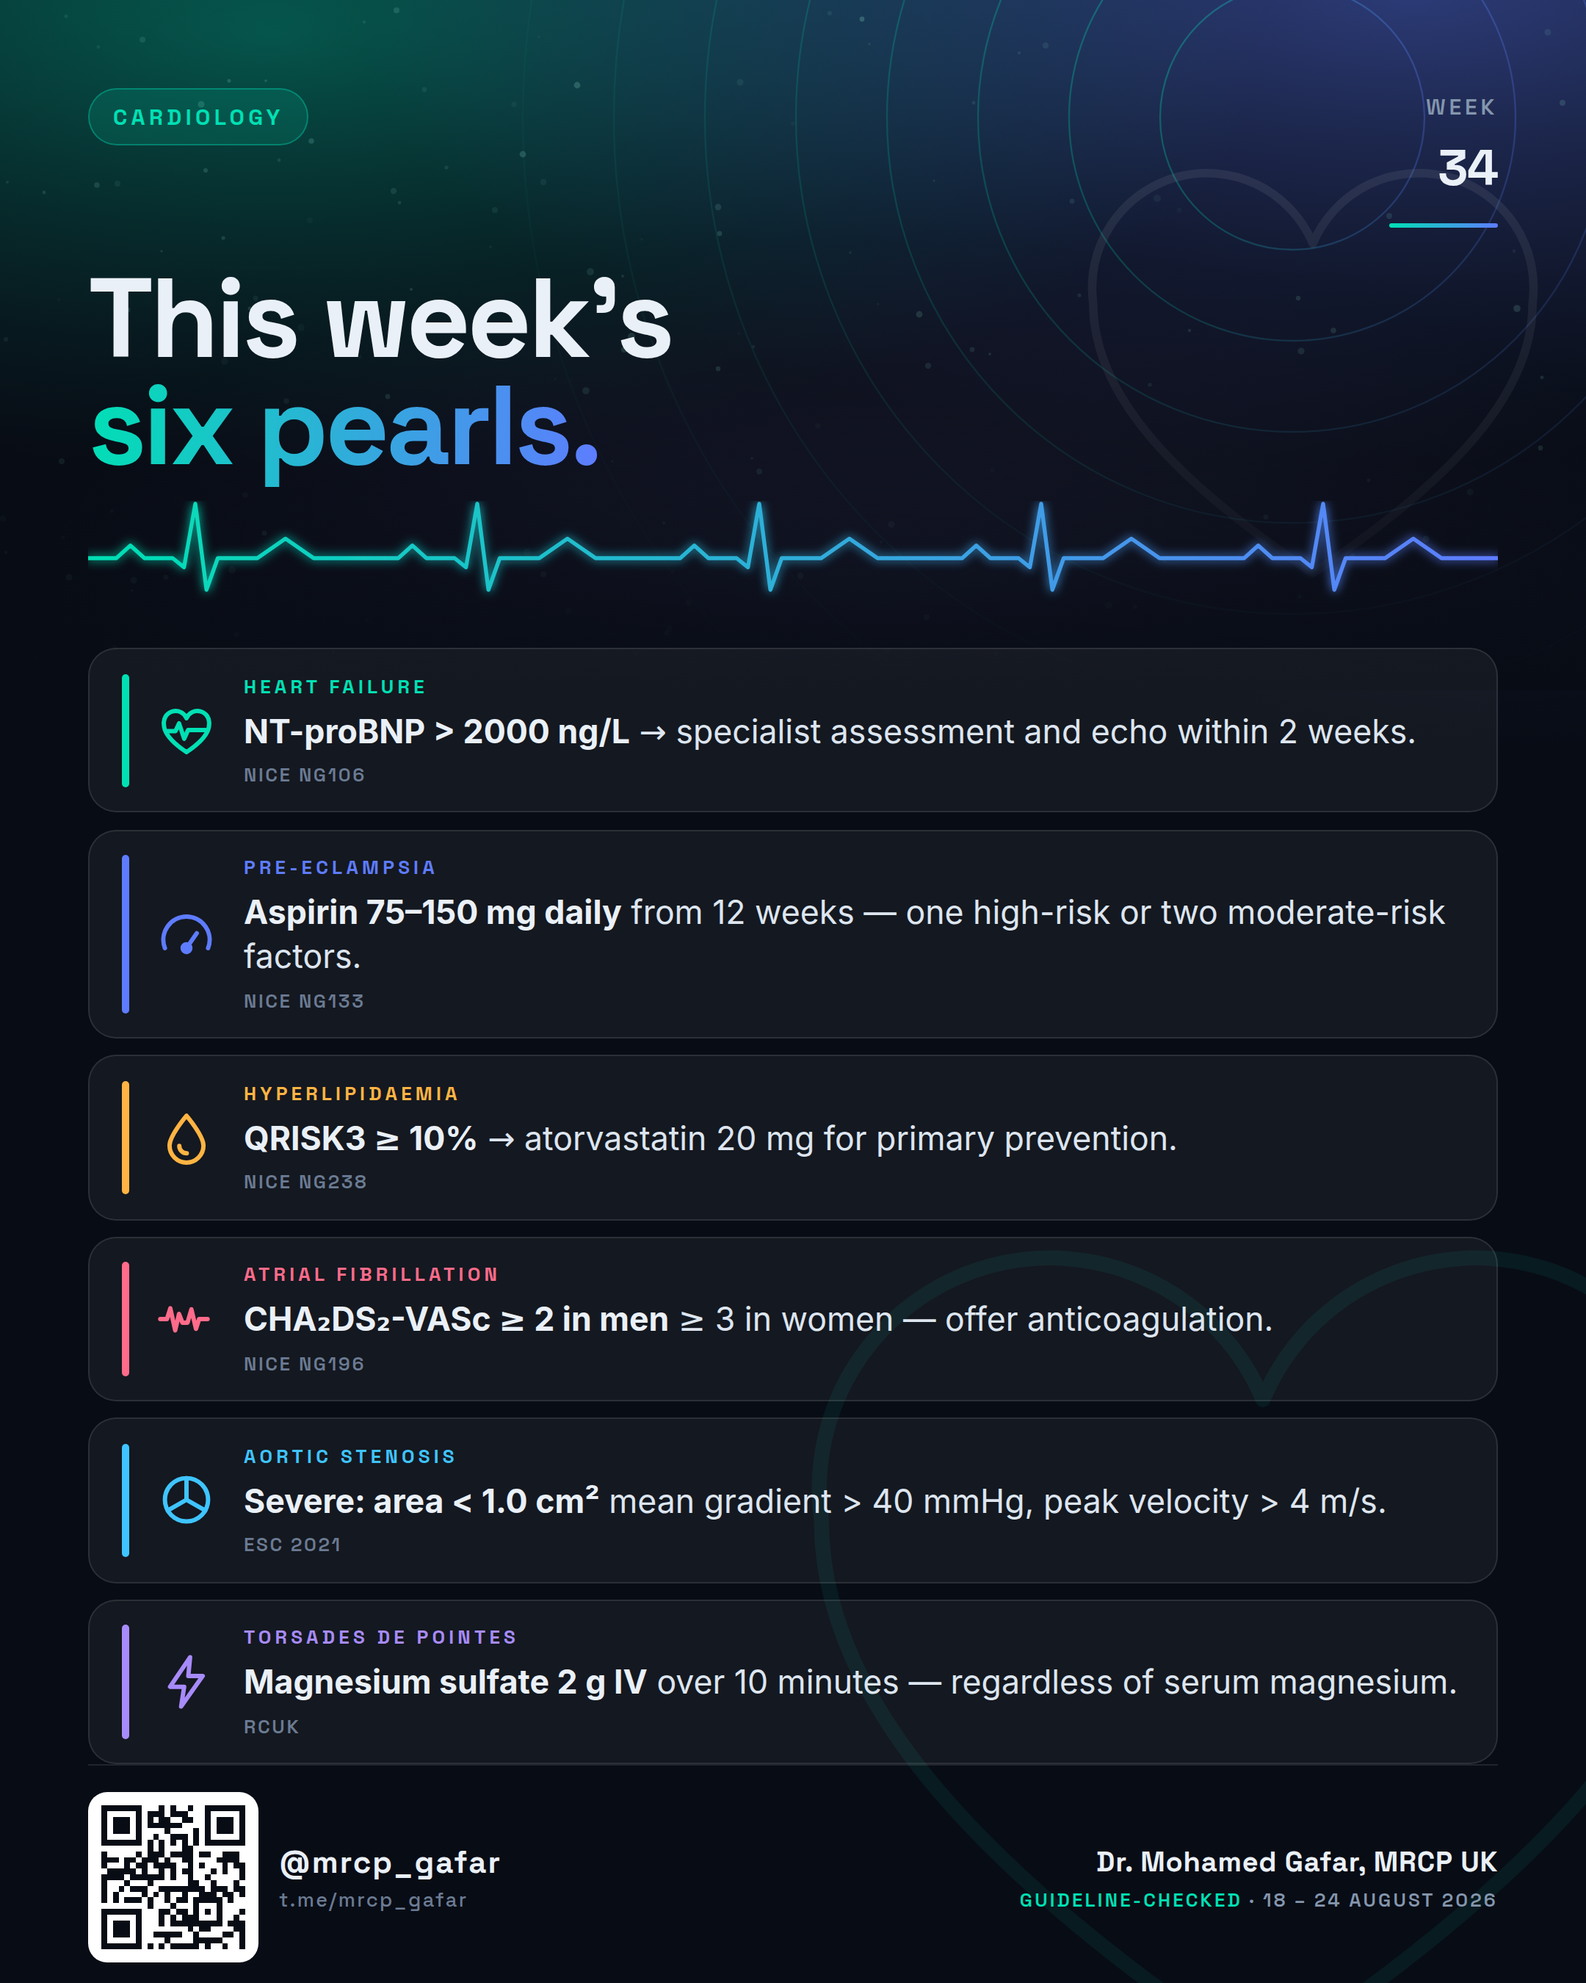
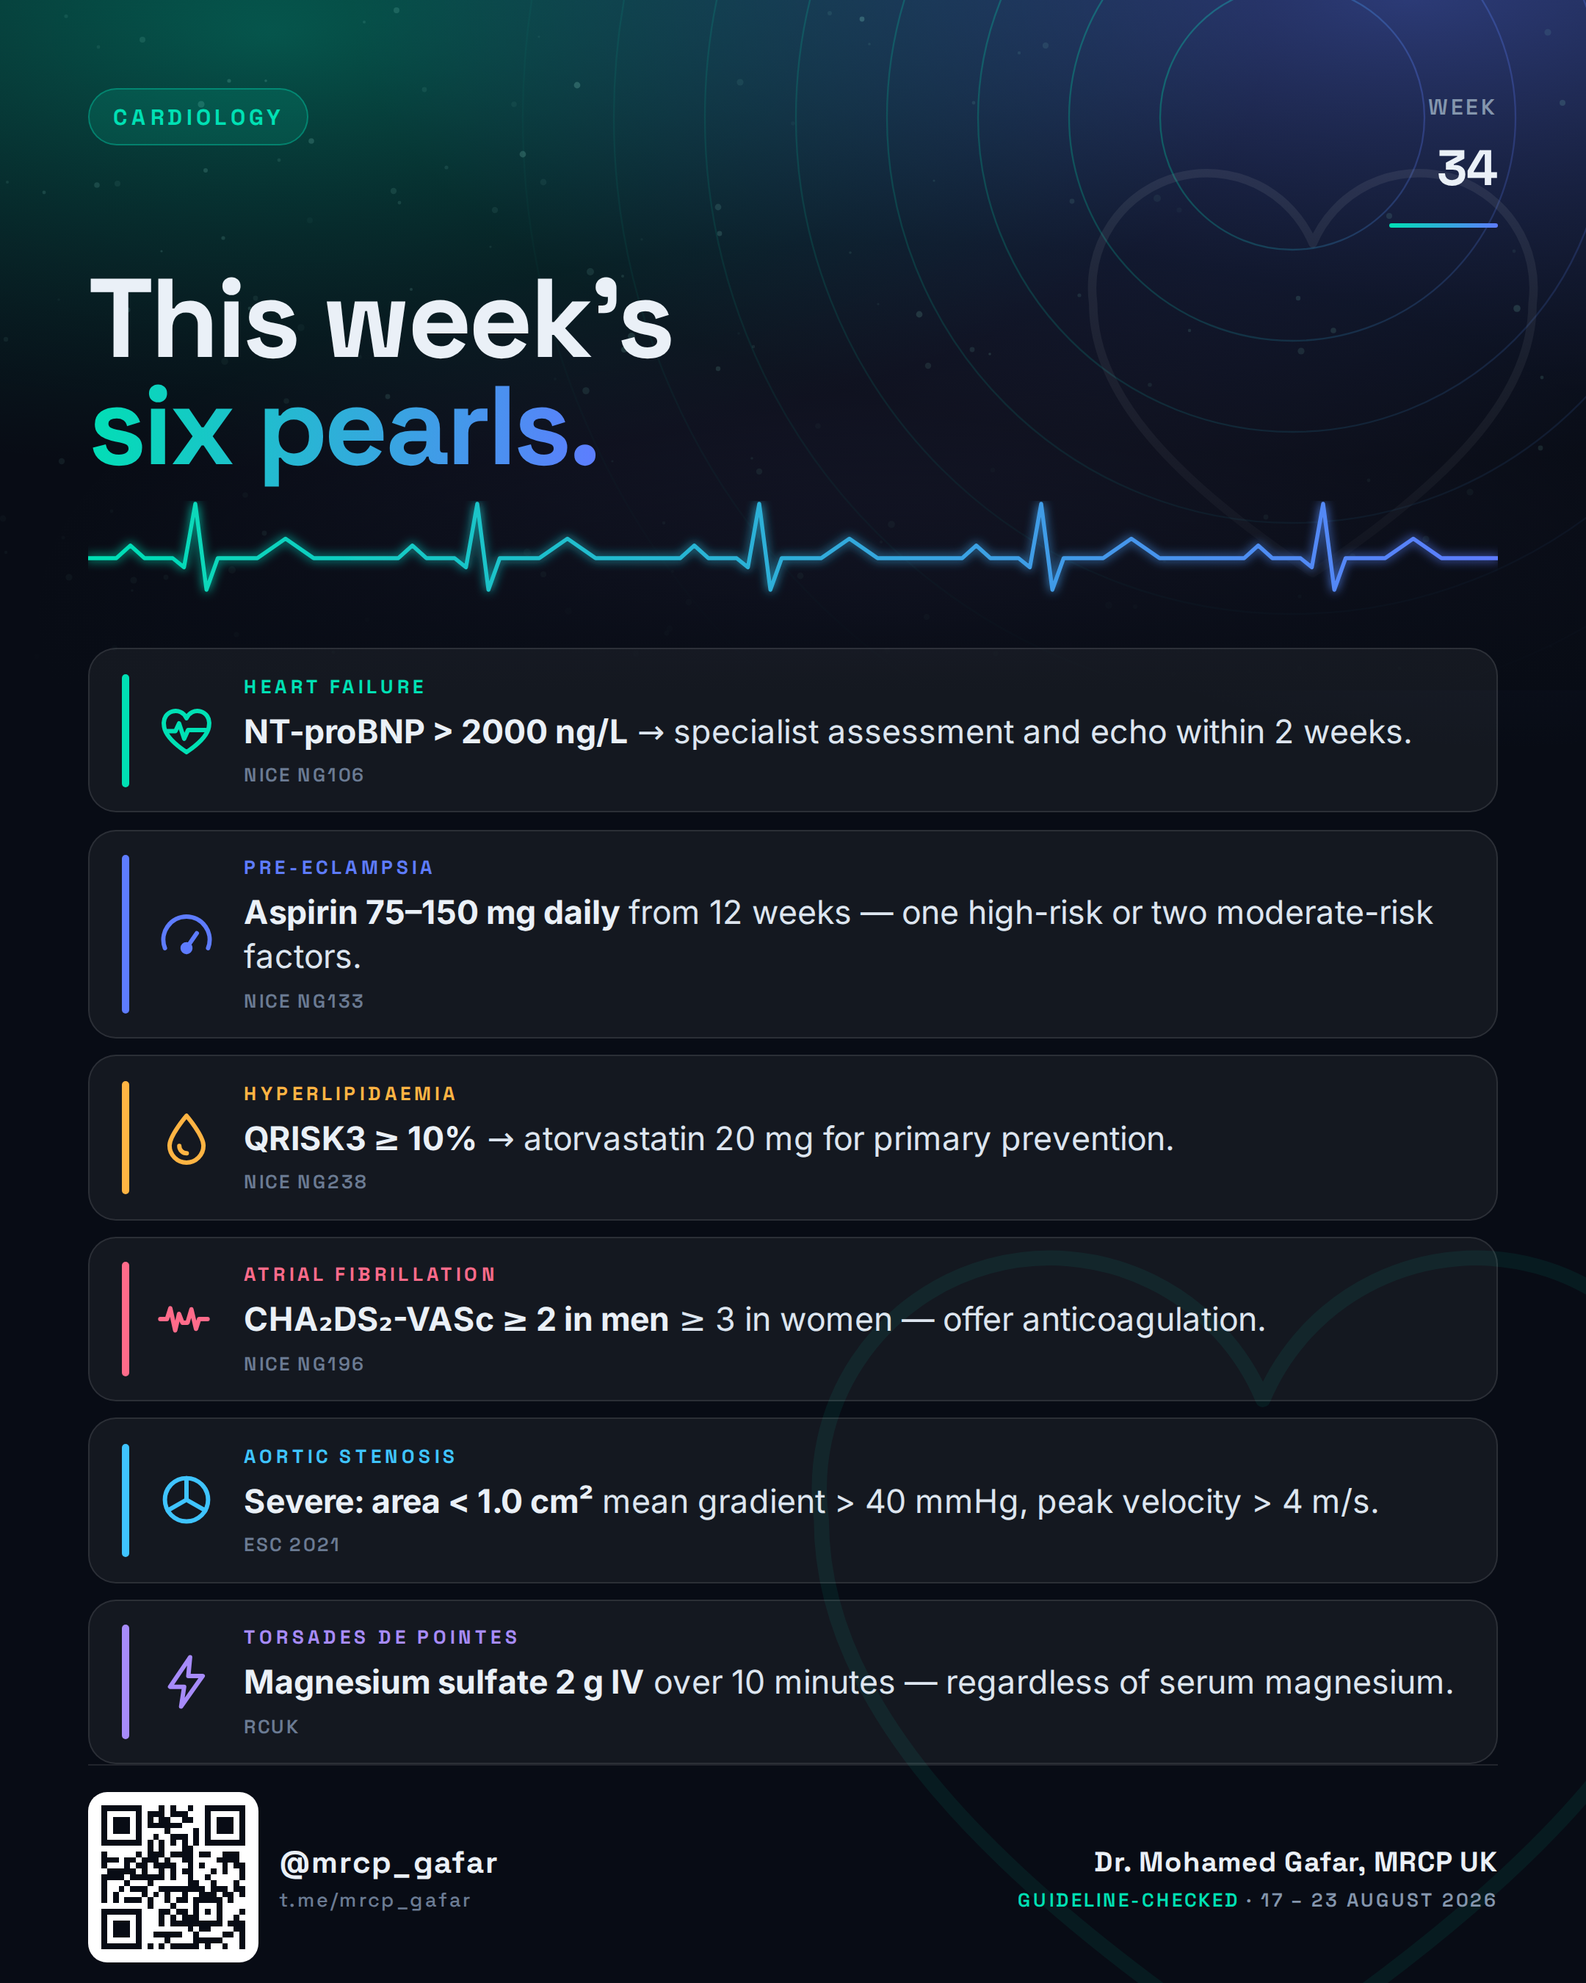
Make the renderer runnable outside this container
The template only ran where it was written: Chromium was pinned to one
absolute path, content was hand-edited source, and there was no dependency
manifest. None of that survives a fresh machine, which is where a scheduled
job runs.

- shoot.mjs resolves Chromium at run time (CHROME_PATH, Playwright cache,
  system chrome) and uses a per-pid port and profile dir so concurrent runs
  do not collide.
- build.py takes --content JSON and --outdir, and generates content.js from
  it, so the pipeline has one seam and no file is edited by hand. It
  validates the week: Monday start, 3-8 pearls, no empty fields, and exits
  non-zero rather than rendering a half-filled canvas.
- The headline count is derived from the pearls, and accents cycle, so weeks
  that are not exactly six pearls render correctly.
- icons.js resolves a topic by exact match, then keyword, then a generic
  fallback. Topics come from Notion; the old exact-string map would have
  drawn a blank square for anything it had not seen.
- Added requirements.txt and package.json.

Also fixes the sample WEEK_START, which was a Tuesday: the footer date range
read 18-24 August instead of the real ISO week 34, 17-23 August.

Claude-Session: https://claude.ai/code/session_01GRMwEyQNScHBkncC4dqAhV

diff --git a/weekly-infographic/icons.js b/weekly-infographic/icons.js
@@ -1,4 +1,8 @@
 // 24x24 stroke icons, one per topic. currentColor so each inherits its card accent.
+//
+// Topics arrive from Notion, so an exact-string map would silently render a blank
+// square for anything not literally in this file. Lookup is therefore: exact key,
+// then keyword match, then a generic fallback that always draws something.
 const ICONS = {
   "Heart failure": '<path d="M12 20.6C6 16.6 3.2 13.2 3.2 9.8A4.6 4.6 0 0 1 12 7.4a4.6 4.6 0 0 1 8.8 2.4c0 3.4-2.8 6.8-8.8 10.8Z"/><path d="M4.6 12.4h3.1l1.4-3 2 6 1.5-3.4h6.8"/>',
   "Pre-eclampsia": '<path d="M3.6 17.4a9 9 0 1 1 16.8 0"/><path d="M12 17.4 16 11.6"/><circle cx="12" cy="17.4" r="1.5"/>',
@@ -6,7 +10,51 @@ const ICONS = {
   "Atrial fibrillation": '<path d="M1.8 12h2.6l1.3-4.2 1.9 8.6 1.5-6.4 1.3 3.4h2l1.5-5.2 1.8 7.6 1.2-3.8h3.3"/>',
   "Aortic stenosis": '<circle cx="12" cy="12" r="8.4"/><path d="M12 12V3.6M12 12 4.7 16.2M12 12l7.3 4.2"/>',
   "Torsades de pointes": '<path d="M13.4 2.4 5.6 13.9h5.5L9.9 21.6l8.4-11.9h-5.6l.7-7.3Z"/>',
+  // Generic shapes reused by the keyword table below.
+  "Heart": '<path d="M12 20.6C6 16.6 3.2 13.2 3.2 9.8A4.6 4.6 0 0 1 12 7.4a4.6 4.6 0 0 1 8.8 2.4c0 3.4-2.8 6.8-8.8 10.8Z"/>',
+  "Vessel": '<path d="M6.4 3.2v7.2a5.6 5.6 0 0 0 11.2 0V3.2"/><path d="M4 20.8h16"/><circle cx="6.4" cy="3.2" r="1.4"/><circle cx="17.6" cy="3.2" r="1.4"/>',
+  "Pressure": '<circle cx="12" cy="13.4" r="7.2"/><path d="M12 13.4 15.6 9.4"/><path d="M12 6.2V3.2"/>',
+  "Pill": '<rect x="3.2" y="9.2" width="17.6" height="5.6" rx="2.8" transform="rotate(-45 12 12)"/><path d="M8.4 8.4 15.6 15.6"/>',
+  "Lung": '<path d="M12 3.4v8.2"/><path d="M12 11.6 8.6 9.2C6.4 7.6 4 9 4 11.6v4.6c0 2.4 2 4.2 4.2 3.6 1.4-.4 2.2-1.6 2.2-3.1v-5.1Z"/><path d="M12 11.6l3.4-2.4c2.2-1.6 4.6-.2 4.6 2.4v4.6c0 2.4-2 4.2-4.2 3.6-1.4-.4-2.2-1.6-2.2-3.1v-5.1Z"/>',
+  "Kidney": '<path d="M14.6 3.4c-3.4 0-6.2 3.8-6.2 8.6s2.8 8.6 6.2 8.6c3 0 5-2.6 5-5.4 0-2-1.4-2.6-1.4-3.2s1.4-1.2 1.4-3.2c0-2.8-2-5.4-5-5.4Z"/><path d="M14.4 12h-3.2"/>',
+  "Lab": '<path d="M9.4 3.2v6.1L4.9 17a2.4 2.4 0 0 0 2.1 3.6h10a2.4 2.4 0 0 0 2.1-3.6l-4.5-7.7V3.2"/><path d="M8.2 3.2h7.6"/><path d="M7.2 14.4h9.6"/>',
+  "Warning": '<path d="M12 3.4 21 19.4H3L12 3.4Z"/><path d="M12 9.6v4.4"/><circle cx="12" cy="17" r="1"/>',
+  "Pulse": '<circle cx="12" cy="12" r="8.8"/><path d="M6.6 12h2l1.3-3.2 2.1 6.4 1.4-3.2h2"/>',
 };
+
+// Keyword table: first match wins, so put the specific before the general.
+// Matching is on a lower-cased topic, substring, accent-insensitive.
+const ICON_KEYWORDS = [
+  [["torsade", "long qt", "qtc", "vt", "ventricular tachycardia", "arrhythm"], "Torsades de pointes"],
+  [["atrial fibrillation", "af ", "flutter", "svt", "palpitation"], "Atrial fibrillation"],
+  [["heart failure", "hfref", "hfpef", "cardiomyopath", "bnp"], "Heart failure"],
+  [["aortic", "mitral", "tricuspid", "pulmonary stenosis", "valv", "regurgitat", "endocarditis"], "Aortic stenosis"],
+  [["lipid", "cholesterol", "statin", "ldl", "triglycerid"], "Hyperlipidaemia"],
+  [["eclampsia", "pregnan", "obstetric", "postpartum"], "Pre-eclampsia"],
+  [["hypertens", "blood pressure", "bp ", "shock", "hypotens"], "Pressure"],
+  [["infarct", "acs", "angina", "ischaem", "ischem", "coronary", "stemi", "nstemi", "troponin"], "Heart"],
+  [["embol", "dvt", "thrombo", "anticoagul", "warfarin", "doac", "bleed", "aneurysm", "dissection", "vascul", "periph"], "Vessel"],
+  [["pulmonary", "respirat", "asthma", "copd", "pneumon"], "Lung"],
+  [["renal", "kidney", "aki", "ckd", "dialysis", "nephro"], "Kidney"],
+  [["electrolyte", "sodium", "potassium", "kalaem", "kalem", "natraem", "natrem", "magnes",
+   "calcium", "calcaem", "glucose", "glycaem", "glycem", "diabet", "thyroid", "anaemia", "anemia"], "Lab"],
+  [["overdose", "toxic", "poison", "arrest", "resuscitat", "sepsis", "emergenc"], "Warning"],
+  [["drug", "dose", "dosing", "therap", "treatment", "prescrib"], "Pill"],
+];
+
+const ICON_FALLBACK = "Pulse";
+
+function ICON_FOR(topic) {
+  if (ICONS[topic]) return ICONS[topic];
+  const t = String(topic || "")
+    .toLowerCase()
+    .normalize("NFD").replace(/[\u0300-\u036f]/g, "")   // ischaemi/ischémi both match
+    + " ";                                              // lets "af " match a trailing "AF"
+  for (const [words, key] of ICON_KEYWORDS)
+    if (words.some(w => t.includes(w))) return ICONS[key];
+  return ICONS[ICON_FALLBACK];
+}
+
 const ICON_WRAP = (topic) =>
   `<svg viewBox="0 0 24 24" fill="none" stroke="currentColor" stroke-width="1.7"
-        stroke-linecap="round" stroke-linejoin="round">${ICONS[topic] || ''}</svg>`;
+        stroke-linecap="round" stroke-linejoin="round">${ICON_FOR(topic)}</svg>`;

diff --git a/weekly-infographic/content.js b/weekly-infographic/content.js
@@ -1,9 +1,1 @@
-const WEEK = { n: 34, range: "18 – 24 August 2026", handle: "@MRCPCardioPearls" };
-const PEARLS = [
-  { topic: "Heart failure",     lead: "NT-proBNP > 2000 ng/L",      rest: "→ specialist assessment and echo within 2 weeks.", src: "NICE NG106" },
-  { topic: "Pre-eclampsia",     lead: "Aspirin 75–150 mg daily",    rest: "from 12 weeks — one high-risk or two moderate-risk factors.", src: "NICE NG133" },
-  { topic: "Hyperlipidaemia",   lead: "QRISK3 ≥ 10%",               rest: "→ atorvastatin 20 mg for primary prevention.", src: "NICE NG238" },
-  { topic: "Atrial fibrillation", lead: "CHA₂DS₂-VASc ≥ 2 in men",  rest: "≥ 3 in women — offer anticoagulation.", src: "NICE NG196" },
-  { topic: "Aortic stenosis",   lead: "Severe: area < 1.0 cm²",     rest: "mean gradient > 40 mmHg, peak velocity > 4 m/s.", src: "ESC 2021" },
-  { topic: "Torsades de pointes", lead: "Magnesium sulfate 2 g IV", rest: "over 10 minutes — regardless of serum magnesium.", src: "RCUK" },
-];
+const PEARLS = [{"topic": "Heart failure", "lead": "NT-proBNP > 2000 ng/L", "rest": "→ specialist assessment and echo within 2 weeks.", "src": "NICE NG106"}, {"topic": "Pre-eclampsia", "lead": "Aspirin 75–150 mg daily", "rest": "from 12 weeks — one high-risk or two moderate-risk factors.", "src": "NICE NG133"}, {"topic": "Hyperlipidaemia", "lead": "QRISK3 ≥ 10%", "rest": "→ atorvastatin 20 mg for primary prevention.", "src": "NICE NG238"}, {"topic": "Atrial fibrillation", "lead": "CHA₂DS₂-VASc ≥ 2 in men", "rest": "≥ 3 in women — offer anticoagulation.", "src": "NICE NG196"}, {"topic": "Aortic stenosis", "lead": "Severe: area < 1.0 cm²", "rest": "mean gradient > 40 mmHg, peak velocity > 4 m/s.", "src": "ESC 2021"}, {"topic": "Torsades de pointes", "lead": "Magnesium sulfate 2 g IV", "rest": "over 10 minutes — regardless of serum magnesium.", "src": "RCUK"}];

diff --git a/weekly-infographic/build.py b/weekly-infographic/build.py
@@ -1,11 +1,15 @@
 #!/usr/bin/env python3
 """Build the weekly pearls infographic (dark + light) from one source of truth.
 
-Everything you'd want to tweak lives in CONFIG. Everything below it is mechanics.
+Content comes from a JSON file (--content) so the pipeline can drive this
+unattended; with no arguments it falls back to the committed sample so a human
+can still run it by hand. Everything you'd want to tweak lives in CONFIG or in
+that JSON. Everything below it is mechanics.
 """
-import datetime as dt, json, pathlib, random, qrcode
+import argparse, datetime as dt, json, pathlib, random, sys, qrcode
 
 # ============================ CONFIG ============================
+# Defaults. A --content JSON may override brand, specialty, week_start and pearls.
 BRAND = {
     "handle":  "@mrcp_gafar",                # shown in the footer
     "url":     "https://t.me/mrcp_gafar",    # what the QR encodes
@@ -13,19 +17,32 @@ BRAND = {
     "author":  "Dr. Mohamed Gafar, MRCP UK", # <-- your name, other side
 }
 SPECIALTY  = "Cardiology"
-WEEK_START = dt.date(2026, 8, 18)            # Monday of the week being summarised
+WEEK_START = dt.date(2026, 8, 17)            # Monday of the week being summarised
 ACCENTS = {                                  # per-card accent, per theme
   "dark":  ["#00E0B4","#5E7CFF","#FFB443","#FF6B8A","#3FC4FF","#A78BFA"],
   "light": ["#0B7A63","#3D51D6","#9A5D0F","#C92C55","#0A6A91","#6B3FD4"],
 }
+MIN_PEARLS, MAX_PEARLS = 3, 8                # fewer than MIN is not worth a post
 # ================================================================
+
+# The sample week, used when no --content is given.
+SAMPLE = [
+  {"topic":"Heart failure","lead":"NT-proBNP > 2000 ng/L","rest":"\u2192 specialist assessment and echo within 2 weeks.","src":"NICE NG106"},
+  {"topic":"Pre-eclampsia","lead":"Aspirin 75\u2013150 mg daily","rest":"from 12 weeks \u2014 one high-risk or two moderate-risk factors.","src":"NICE NG133"},
+  {"topic":"Hyperlipidaemia","lead":"QRISK3 \u2265 10%","rest":"\u2192 atorvastatin 20 mg for primary prevention.","src":"NICE NG238"},
+  {"topic":"Atrial fibrillation","lead":"CHA\u2082DS\u2082-VASc \u2265 2 in men","rest":"\u2265 3 in women \u2014 offer anticoagulation.","src":"NICE NG196"},
+  {"topic":"Aortic stenosis","lead":"Severe: area < 1.0 cm\u00b2","rest":"mean gradient > 40 mmHg, peak velocity > 4 m/s.","src":"ESC 2021"},
+  {"topic":"Torsades de pointes","lead":"Magnesium sulfate 2 g IV","rest":"over 10 minutes \u2014 regardless of serum magnesium.","src":"RCUK"},
+]
+
+# The headline names the count, so it has to agree with what is on the canvas.
+NUMBER_WORD = {3:"three", 4:"four", 5:"five", 6:"six", 7:"seven", 8:"eight"}
 
 # Week number rule: ISO-8601. Week 1 is the week containing the first Thursday
 # of the year, weeks run Monday-Sunday. Same rule Python, Postgres and n8n use,
 # so the number never has to be maintained by hand.
 def iso_week(d): return d.isocalendar()[1]
 
-WEEK_END = WEEK_START + dt.timedelta(days=6)
 def fmt_range(a, b):
     if a.month == b.month: return f"{a.day} – {b.day} {b:%B %Y}"
     return f"{a.day} {a:%b} – {b.day} {b:%b} {b:%Y}"
@@ -92,25 +109,29 @@ def plate_svg(seed=7):
 WATERMARK = (f'<div class="bgart" data-decor><svg class="watermark" viewBox="0 0 24 24" fill="none" '
              f'stroke="currentColor" stroke-width="0.30" stroke-linejoin="round">{HEART}</svg></div>')
 
-def build(theme):
-    wk = iso_week(WEEK_START)
-    ctx = {"n": wk, "range": fmt_range(WEEK_START, WEEK_END), **BRAND}
+def build(theme, cfg):
+    brand, pearls = cfg["brand"], cfg["pearls"]
+    start = cfg["week_start"]; end = start + dt.timedelta(days=6)
+    ctx = {"n": iso_week(start), "range": fmt_range(start, end), **brand}
+    # Accents cycle, so a week with more pearls than colours still gets one each.
+    accents = [ACCENTS[theme][i % len(ACCENTS[theme])] for i in range(len(pearls))]
+    count = NUMBER_WORD.get(len(pearls), str(len(pearls)))
     return f'''<meta charset="utf-8"><link rel="stylesheet" href="fonts.css">
 <link rel="stylesheet" href="weekly.css">
 <script>document.documentElement.setAttribute('data-theme','{theme}');
-window.ACCENTS={json.dumps(ACCENTS[theme])};window.CTX={json.dumps(ctx)};</script>
+window.ACCENTS={json.dumps(accents)};window.CTX={json.dumps(ctx)};</script>
 {plate_svg()}
 {WATERMARK}
 <div class="head">
-  <div><span class="chip">{SPECIALTY}</span></div>
+  <div><span class="chip">{cfg["specialty"]}</span></div>
   <div class="wknum">Week<b id="wk"></b><div class="wkrule"></div></div>
 </div>
-<h1>This week&rsquo;s<br><span>six pearls.</span></h1>
+<h1>This week&rsquo;s<br><span>{count} pearls.</span></h1>
 {ecg_svg()}
 <div class="list" id="list"></div>
 <footer>
   <div class="brand">
-    <div class="qr">{qr_svg(BRAND["url"])}</div>
+    <div class="qr">{qr_svg(brand["url"])}</div>
     <div class="brandtxt"><b id="hd"></b><span id="hu"></span></div>
   </div>
   <div class="byline">
@@ -119,7 +140,51 @@ window.ACCENTS={json.dumps(ACCENTS[theme])};window.CTX={json.dumps(ctx)};</scrip
 </footer>
 <script src="content.js"></script><script src="icons.js"></script><script src="weekly.js"></script>'''
 
-for theme in ("dark", "light"):
-    pathlib.Path(f"weekly_{theme}.html").write_text(build(theme))
-    print(f"wrote weekly_{theme}.html")
-print(f"ISO week {iso_week(WEEK_START)} · {fmt_range(WEEK_START, WEEK_END)}")
+
+def load_config(path):
+    """Resolve the render config from a --content JSON, falling back to CONFIG.
+
+    Fails loudly on anything the renderer cannot honour, because a silent
+    fallback here would publish last week's sample under this week's number.
+    """
+    cfg = {"brand": dict(BRAND), "specialty": SPECIALTY,
+           "week_start": WEEK_START, "pearls": list(SAMPLE)}
+    if path:
+        raw = json.loads(pathlib.Path(path).read_text())
+        cfg["brand"].update(raw.get("brand", {}))
+        cfg["specialty"] = raw.get("specialty", cfg["specialty"])
+        if "week_start" in raw:
+            cfg["week_start"] = dt.date.fromisoformat(raw["week_start"])
+        if "pearls" in raw:
+            cfg["pearls"] = raw["pearls"]
+    if cfg["week_start"].weekday() != 0:
+        sys.exit(f"week_start {cfg['week_start']} is not a Monday")
+    n = len(cfg["pearls"])
+    if not MIN_PEARLS <= n <= MAX_PEARLS:
+        sys.exit(f"{n} pearls: need {MIN_PEARLS}-{MAX_PEARLS}")
+    for i, pearl in enumerate(cfg["pearls"]):
+        missing = [k for k in ("topic", "lead", "rest", "src") if not pearl.get(k)]
+        if missing:
+            sys.exit(f"pearl {i}: missing {', '.join(missing)}")
+    return cfg
+
+
+def main():
+    ap = argparse.ArgumentParser(description=__doc__)
+    ap.add_argument("--content", help="JSON with brand/specialty/week_start/pearls")
+    ap.add_argument("--outdir", default=".", help="where to write the HTML and content.js")
+    args = ap.parse_args()
+
+    cfg = load_config(args.content)
+    out = pathlib.Path(args.outdir); out.mkdir(parents=True, exist_ok=True)
+    # content.js is generated, not hand-edited: the JSON is the only source of truth.
+    (out / "content.js").write_text("const PEARLS = " + json.dumps(cfg["pearls"], ensure_ascii=False) + ";\n")
+    for theme in ("dark", "light"):
+        (out / f"weekly_{theme}.html").write_text(build(theme, cfg))
+        print(f"wrote {out / f'weekly_{theme}.html'}")
+    end = cfg["week_start"] + dt.timedelta(days=6)
+    print(f"ISO week {iso_week(cfg['week_start'])} \u00b7 {fmt_range(cfg['week_start'], end)} \u00b7 {len(cfg['pearls'])} pearls")
+
+
+if __name__ == "__main__":
+    main()
